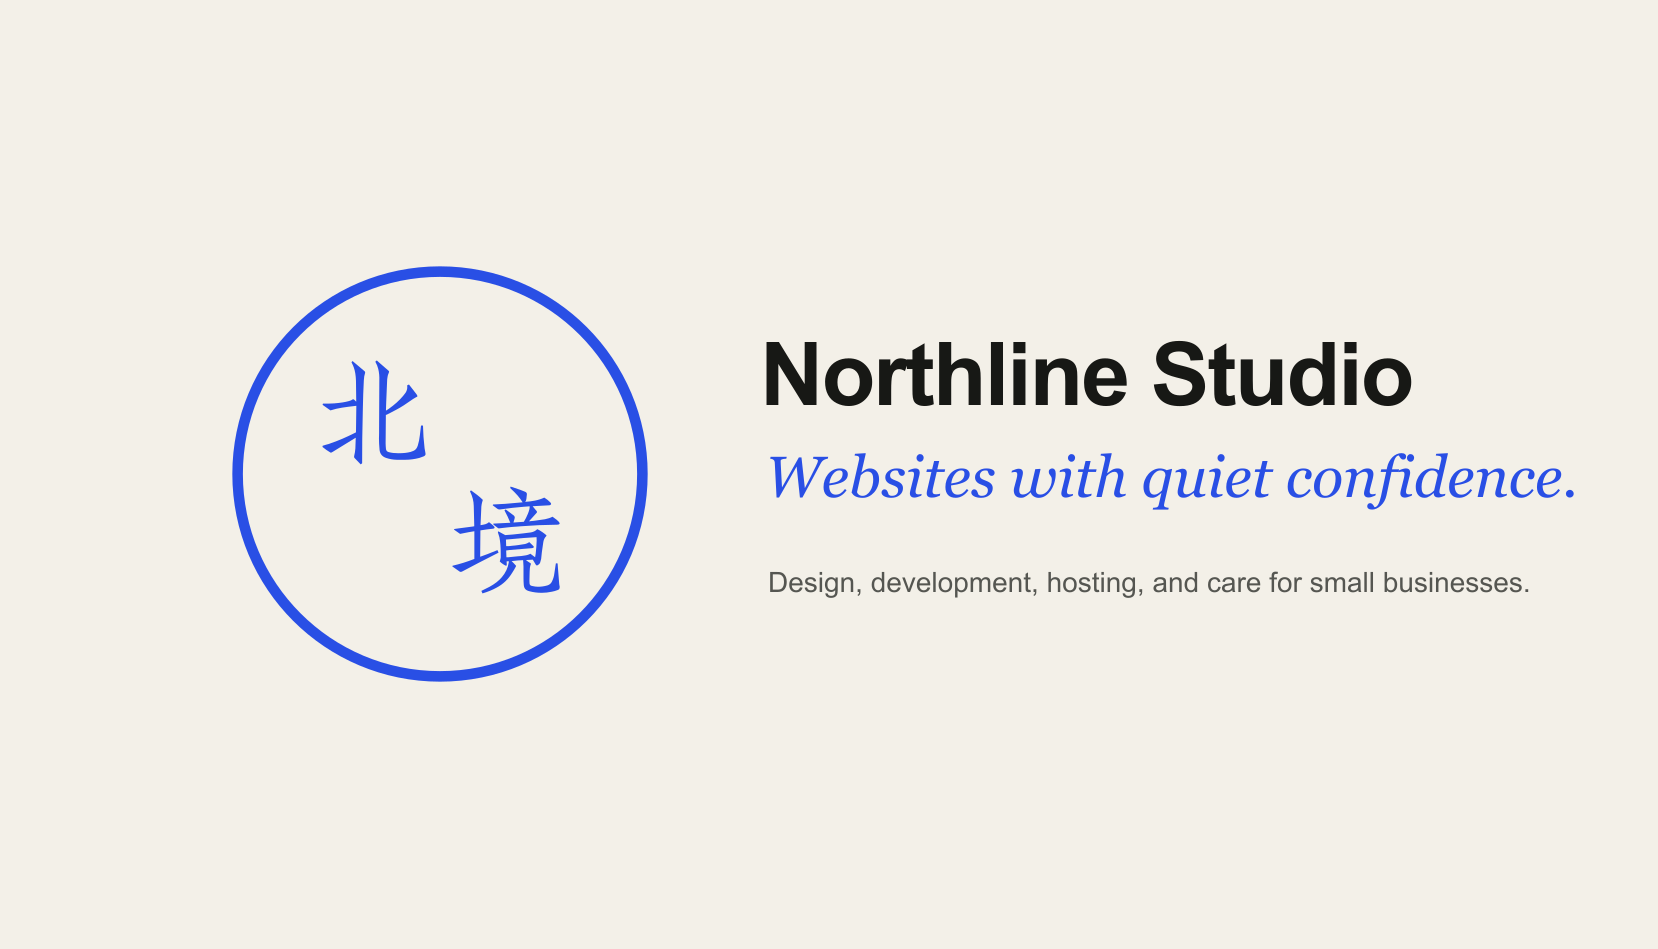
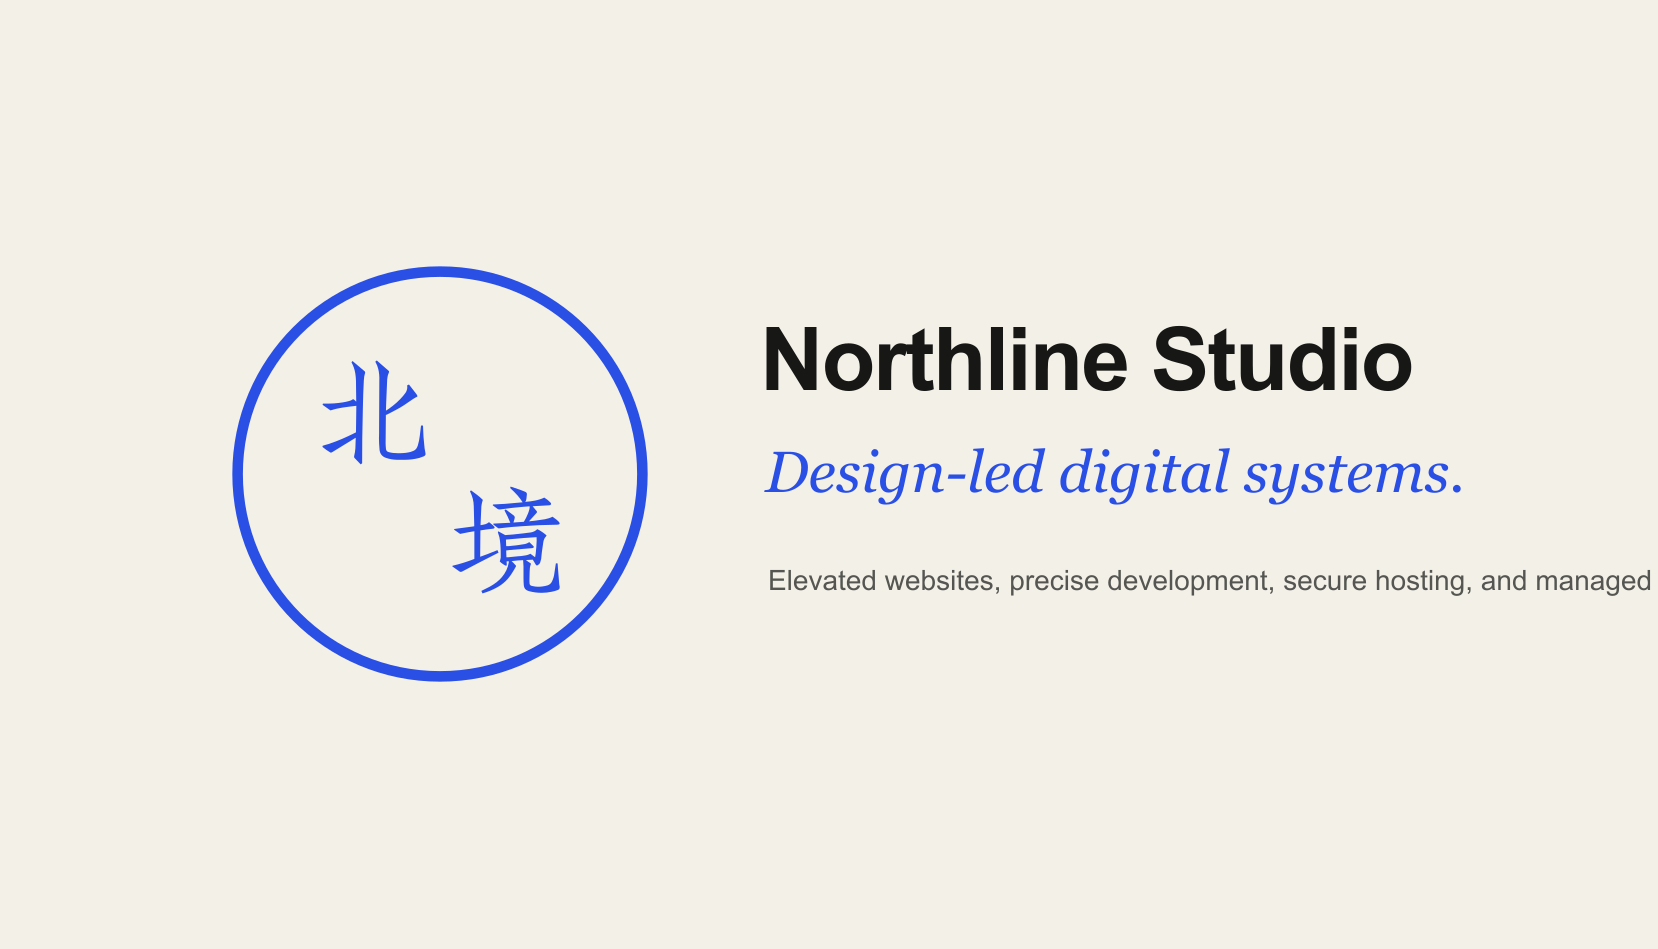
Elevate studio positioning copy

Changed region(s): [[0.4614, 0.3361, 0.8613, 0.4278], [0.4614, 0.5806, 1.0, 0.6417], [0.4614, 0.4584, 0.9536, 0.5501]]

diff --git a/app/page.tsx b/app/page.tsx
@@ -1,20 +1,20 @@
 const projects = [
   {
     number: "01",
-    type: "Professional Services",
-    name: "Aster & Co.",
-    description: "A calm, confident digital home for an advisory firm built on trust.",
+    type: "Editorial Identity",
+    name: "Aster Atelier",
+    description: "A refined digital presence for a visual brand with a sharp point of view.",
     className: "project-aster",
     mockup: (
       <div className="project-screen aster-screen" aria-hidden="true">
         <div className="screen-nav">
-          <span>ASTER & CO.</span>
-          <span>Services&nbsp;&nbsp; About&nbsp;&nbsp; Contact</span>
+          <span>ASTER ATELIER</span>
+          <span>Work&nbsp;&nbsp; Journal&nbsp;&nbsp; Contact</span>
         </div>
         <div className="aster-copy">
-          <span>THOUGHTFUL ADVICE. LASTING VALUE.</span>
-          <strong>Clarity for every<br />turn ahead.</strong>
-          <i>Explore our approach</i>
+          <span>VISUAL IDENTITY · DIGITAL SYSTEM</span>
+          <strong>Presence with<br />quiet authority.</strong>
+          <i>Enter the studio</i>
         </div>
         <div className="aster-orbit" />
       </div>
@@ -22,32 +22,32 @@ const projects = [
   },
   {
     number: "02",
-    type: "Local Business",
-    name: "Common Ground",
-    description: "A warm, neighborhood-first website designed to turn visits into regulars.",
+    type: "Premium Portfolio",
+    name: "Lucent House",
+    description: "A cinematic portfolio system built for high-impact launches and inquiries.",
     className: "project-common",
     mockup: (
       <div className="project-screen common-screen" aria-hidden="true">
-        <div className="common-stamp">CG<br /><small>EST. 2019</small></div>
-        <span className="common-note">COFFEE · COMMUNITY · EVERY DAY</span>
-        <strong>GOOD DAYS<br />START HERE.</strong>
-        <div className="coffee-cup"><span /></div>
-        <i>VIEW THE MENU</i>
+        <div className="common-stamp">LH<br /><small>INDEX</small></div>
+        <span className="common-note">SELECTED WORK · PRESS · BOOKING</span>
+        <strong>THE IMAGE<br />LEADS.</strong>
+        <div className="portfolio-orb"><span /></div>
+        <i>VIEW THE INDEX</i>
       </div>
     ),
   },
   {
     number: "03",
-    type: "Home Services",
-    name: "Summit Build",
-    description: "A bold, direct site that makes quality craftsmanship easy to trust.",
+    type: "Secure Platform",
+    name: "Meridian One",
+    description: "A polished web platform engineered for speed, stability, and trust.",
     className: "project-northline",
     mockup: (
       <div className="project-screen northline-screen" aria-hidden="true">
-        <div className="northline-nav"><b>SUMMIT / BUILD</b><span>PROJECTS&nbsp;&nbsp; PROCESS&nbsp;&nbsp; CONTACT</span></div>
+        <div className="northline-nav"><b>MERIDIAN / ONE</b><span>SYSTEM&nbsp;&nbsp; SECURITY&nbsp;&nbsp; ACCESS</span></div>
         <div className="northline-shape" />
-        <strong>BUILT RIGHT.<br />BUILT TO LAST.</strong>
-        <i>START A PROJECT</i>
+        <strong>DESIGNED SHARP.<br />BUILT SECURE.</strong>
+        <i>OPEN THE SYSTEM</i>
       </div>
     ),
   },
@@ -56,40 +56,40 @@ const projects = [
 const services = [
   {
     number: "01",
-    title: "Strategy & Design",
-    text: "A clear plan, purposeful structure, and a custom visual direction shaped around your business—not a recycled template.",
-    tags: ["Discovery", "UX direction", "Visual design"],
+    title: "Creative Direction",
+    text: "A distinct visual system, refined content structure, and interaction direction shaped around the way your brand should be perceived.",
+    tags: ["Identity direction", "UX architecture", "Artful interface"],
   },
   {
     number: "02",
-    title: "Development",
-    text: "Fast, responsive pages built with care so your site feels effortless on every screen and is easy to find online.",
-    tags: ["Responsive build", "SEO foundations", "Performance"],
+    title: "Technical Build",
+    text: "Clean, modern development with fast load times, responsive behavior, strong accessibility, and the technical foundation to scale with confidence.",
+    tags: ["Frontend engineering", "Performance", "SEO structure"],
   },
   {
     number: "03",
-    title: "Hosting & Care",
-    text: "Reliable hosting, updates, backups, and a real person to call when you need help after your new site goes live.",
-    tags: ["Managed hosting", "Maintenance", "Ongoing support"],
+    title: "Secure Hosting & Care",
+    text: "Managed deployment, monitoring, updates, and practical safeguards so the site stays stable, protected, and ready when your audience arrives.",
+    tags: ["Managed hosting", "Security care", "Ongoing support"],
   },
 ];
 
 const faqs = [
   {
-    question: "How much does a website cost?",
-    answer: "Every project is a little different. After a short conversation, you’ll receive a clear proposal based on the pages, features, and support your business actually needs.",
+    question: "What kind of projects do you take on?",
+    answer: "Northline Studio is best suited for brands that care about perception, polish, and long-term reliability—whether the project is a focused portfolio, a launch site, or a more complete digital presence.",
   },
   {
-    question: "How long does it take?",
-    answer: "Most small-business websites take a few weeks from kickoff to launch. The exact timeline depends on scope and how quickly content and feedback come together.",
+    question: "How long does a project take?",
+    answer: "Most focused sites take a few weeks from direction to launch. More layered builds with custom structure, content, or technical requirements are planned around a clear production schedule.",
   },
   {
-    question: "Can you redesign my current website?",
-    answer: "Absolutely. We can keep what is working, rethink what is not, and create a more modern, focused experience around your current business goals.",
+    question: "Can you elevate an existing site?",
+    answer: "Yes. We can preserve what is useful, sharpen the visual system, improve performance, and rebuild the experience so it feels more current, premium, and credible.",
   },
   {
     question: "What happens after launch?",
-    answer: "You won’t be left on your own. Ongoing hosting, maintenance, backups, and content updates can all be handled for you.",
+    answer: "The site can stay under managed care with hosting, updates, security-minded maintenance, backups, and thoughtful support when new content or changes are needed.",
   },
 ];
 
@@ -136,12 +136,12 @@ export default function Home() {
 
       <section className="hero" id="top">
         <div className="hero-copy">
-          <p className="eyebrow"><span /> Independent web design & development</p>
-          <h1>Websites that make your business look <em>as good as it is.</em></h1>
-          <p className="hero-intro">Custom design, reliable hosting, and ongoing support—all handled for you, so you can focus on running your business.</p>
+          <p className="eyebrow"><span /> Design-led websites & digital systems</p>
+          <h1>A digital studio for brands that need to look <em>exceptional.</em></h1>
+          <p className="hero-intro">Northline Studio creates elevated web experiences with strong visual direction, precise engineering, secure hosting, and the kind of polish that makes a brand feel established from the first click.</p>
           <div className="hero-actions">
-            <a className="button button-primary" href="#contact">Let&apos;s work together</a>
-            <a className="text-link" href="#work">See selected work <span>↓</span></a>
+            <a className="button button-primary" href="#contact">Build your presence</a>
+            <a className="text-link" href="#work">See studio concepts <span>↓</span></a>
           </div>
         </div>
 
@@ -150,40 +150,40 @@ export default function Home() {
           <div className="browser-card">
             <div className="browser-bar">
               <span className="browser-dots"><i /><i /><i /></span>
-              <span className="browser-address">yourbusiness.com</span>
+              <span className="browser-address">yourbrand.com</span>
             </div>
             <div className="browser-site">
-              <div className="mini-nav"><b>THE GOOD CO.</b><span>ABOUT&nbsp;&nbsp; SERVICES&nbsp;&nbsp; CONTACT</span></div>
-              <p>LOCAL EXPERTISE · PERSONAL SERVICE</p>
-              <h2>Great work<br />deserves a<br /><em>great website.</em></h2>
-              <button type="button" tabIndex={-1}>WORK WITH US</button>
+              <div className="mini-nav"><b>NORTHLINE / STUDIO</b><span>WORK&nbsp;&nbsp; METHOD&nbsp;&nbsp; CONTACT</span></div>
+              <p>VISUAL DIRECTION · SECURE BUILD</p>
+              <h2>Your brand<br />should feel<br /><em>impossible to ignore.</em></h2>
+              <button type="button" tabIndex={-1}>BEGIN THE BUILD</button>
               <div className="mini-art"><span className="mini-arch" /><span className="mini-circle" /></div>
             </div>
           </div>
-          <div className="launch-badge"><span>✓</span><div><small>YOUR SITE</small><strong>Ready to launch</strong></div></div>
-          <p className="visual-note">Designed to be clear.<br />Built to work hard.</p>
+          <div className="launch-badge"><span>✓</span><div><small>SYSTEM STATUS</small><strong>Launch-ready</strong></div></div>
+          <p className="visual-note">Designed with taste.<br />Built for trust.</p>
         </div>
 
         <div className="hero-proof" aria-label="Service highlights">
-          <span>Custom-built</span><i>✦</i><span>Mobile-first</span><i>✦</i><span>Fully managed</span><i>✦</i><span>Human support</span>
+          <span>Design-led</span><i>✦</i><span>High-performance</span><i>✦</i><span>Secure hosting</span><i>✦</i><span>Managed care</span>
         </div>
       </section>
 
       <section className="intro-section section-pad">
-        <p className="section-kicker">What your website should do</p>
+        <p className="section-kicker">What a premium site should do</p>
         <div className="intro-grid">
-          <h2>Make a strong first impression—and make the next step <em>obvious.</em></h2>
+          <h2>Create desire, build trust, and make the brand feel <em>inevitable.</em></h2>
           <div className="intro-copy">
-            <p>Your website should build trust, explain your value, and help the right people choose you. It shouldn&apos;t become one more technical problem on your list.</p>
-            <p>I take care of the whole process—from the first idea to launch and ongoing care—so you get a site that looks sharp and earns its place in your business.</p>
+            <p>Your website is often the first serious proof of your taste, credibility, and ambition. It should feel considered at every detail: layout, motion, typography, performance, and the path toward inquiry.</p>
+            <p>Northline Studio brings design sensibility and technical discipline together, creating digital homes that look refined, load quickly, stay dependable, and support the next stage of your brand.</p>
           </div>
         </div>
       </section>
 
       <section className="work-section section-pad" id="work">
         <div className="section-heading">
-          <div><p className="section-kicker light">Selected concepts</p><h2>Work with<br /><em>purpose.</em></h2></div>
-          <p>Each site starts with a different business problem—and ends with a clear, considered digital experience.</p>
+          <div><p className="section-kicker light">Selected concepts</p><h2>Designed for<br /><em>presence.</em></h2></div>
+          <p>Each concept explores a different kind of digital authority: editorial, visual, technical, and commercial.</p>
         </div>
         <div className="project-list">
           {projects.map((project) => (
@@ -205,8 +205,8 @@ export default function Home() {
 
       <section className="services-section section-pad" id="services">
         <div className="services-heading">
-          <p className="section-kicker">How I can help</p>
-          <h2>Everything you need.<br /><em>None of the runaround.</em></h2>
+          <p className="section-kicker">Studio capabilities</p>
+          <h2>Sharp creative.<br /><em>Serious engineering.</em></h2>
         </div>
         <div className="service-list">
           {services.map((service) => (
@@ -224,15 +224,15 @@ export default function Home() {
 
       <section className="process-section section-pad" id="process">
         <div className="process-intro">
-          <p className="section-kicker light">A simple process</p>
-          <h2>From first hello<br />to <em>launch day.</em></h2>
-          <p>Clear steps, honest communication, and no disappearing into a black box.</p>
+          <p className="section-kicker light">A focused process</p>
+          <h2>From direction<br />to <em>deployment.</em></h2>
+          <p>A clear creative path, disciplined technical execution, and a polished launch without unnecessary noise.</p>
         </div>
         <ol className="process-list">
-          <li><span>01</span><div><h3>Discover</h3><p>We talk about your business, your customers, and what the website needs to accomplish.</p></div></li>
-          <li><span>02</span><div><h3>Design</h3><p>I shape the strategy, content flow, and visual direction into a site that feels distinctly yours.</p></div></li>
-          <li><span>03</span><div><h3>Build</h3><p>The approved design becomes a fast, responsive website, tested across devices.</p></div></li>
-          <li><span>04</span><div><h3>Launch & care</h3><p>We go live with confidence, then I stay available for hosting, updates, and support.</p></div></li>
+          <li><span>01</span><div><h3>Direction</h3><p>We define the brand position, audience expectations, content priorities, and the feeling the site needs to create.</p></div></li>
+          <li><span>02</span><div><h3>Design system</h3><p>The visual language, page rhythm, and interaction details are shaped into a refined experience that feels unmistakably intentional.</p></div></li>
+          <li><span>03</span><div><h3>Engineering</h3><p>The approved direction becomes a fast, responsive, accessible site built with clean code and a stable technical foundation.</p></div></li>
+          <li><span>04</span><div><h3>Launch & protect</h3><p>Deployment, hosting, updates, and ongoing care are handled so the finished site remains secure, reliable, and ready to perform.</p></div></li>
         </ol>
       </section>
 
@@ -243,16 +243,16 @@ export default function Home() {
           <span className="about-caption">INDEPENDENT<br />DESIGN STUDIO</span>
         </div>
         <div className="about-copy">
-          <p className="section-kicker">The person behind the pixels</p>
-          <h2>Big-agency thinking.<br /><em>One-to-one attention.</em></h2>
-          <p>Northline Studio helps small businesses show up online with the same care and quality they bring to their own work.</p>
-          <p>You&apos;ll work directly with one dedicated maker from our first conversation through launch. That means fewer handoffs, clearer communication, and a website built by someone who knows your story.</p>
-          <a className="text-link" href="#contact">Tell me about your business</a>
+          <p className="section-kicker">The studio approach</p>
+          <h2>Boutique attention.<br /><em>Production-grade craft.</em></h2>
+          <p>Northline Studio is built for brands that want more than a pleasant template. The work sits at the intersection of taste, clarity, engineering, and long-term reliability.</p>
+          <p>You work directly with a dedicated maker from direction through launch, which keeps the process precise, personal, and focused on creating a digital presence that feels premium from the outside and dependable underneath.</p>
+          <a className="text-link" href="#contact">Tell me about your vision</a>
         </div>
       </section>
 
       <section className="faq-section section-pad">
-        <div className="faq-heading"><p className="section-kicker">Good to know</p><h2>A few common<br /><em>questions.</em></h2></div>
+        <div className="faq-heading"><p className="section-kicker">Good to know</p><h2>Before we<br /><em>begin.</em></h2></div>
         <div className="faq-list">
           {faqs.map((faq) => (
             <details key={faq.question}>
@@ -265,16 +265,16 @@ export default function Home() {
 
       <section className="contact-section" id="contact">
         <div className="contact-star" aria-hidden="true">✦</div>
-        <p className="section-kicker light">Have a project in mind?</p>
-        <h2>Let&apos;s make your website<br /><em>work harder.</em></h2>
-        <p>Tell me a little about your business and where you want to go next. The first conversation is free, friendly, and pressure-free.</p>
-        <a className="button button-light" href="mailto:hello@yourstudio.com?subject=New%20website%20project">Start the conversation</a>
-        <small>Currently accepting new projects</small>
+        <p className="section-kicker light">Ready for a sharper presence?</p>
+        <h2>Let&apos;s build the site your brand<br /><em>deserves.</em></h2>
+        <p>Tell me what you are building, what needs to feel elevated, and where the website needs to perform. The first conversation is focused, thoughtful, and pressure-free.</p>
+        <a className="button button-light" href="mailto:hello@yourstudio.com?subject=New%20Northline%20Studio%20project">Start the conversation</a>
+        <small>Selective new projects now open</small>
       </section>
 
       <footer>
         <a className="brand footer-brand" href="#top" aria-label="Back to top"><NorthlineLogo className="brand-logo" /><span className="brand-name">Northline<br />Studio</span></a>
-        <p>Web design, development & ongoing care<br />for small businesses that care about their work.</p>
+        <p>Design-led web experiences, secure hosting,<br />and managed care for brands with high standards.</p>
         <div className="footer-links"><a href="#work">Work</a><a href="#services">Services</a><a href="#about">About</a><a href="#contact">Contact</a></div>
         <div className="footer-bottom"><span>© {new Date().getFullYear()} Northline Studio</span><span>Designed with care. Built to last.</span><a href="#top">Back to top ↑</a></div>
       </footer>

diff --git a/app/globals.css b/app/globals.css
@@ -138,9 +138,9 @@ h1 em, h2 em { color: var(--blue); font-family: Georgia, 'Times New Roman', seri
 .common-note { position: absolute; right: 20px; top: 28px; font: clamp(5px,.6vw,8px) var(--font-geist-mono); letter-spacing: .1em; }
 .common-screen > strong { position: absolute; left: 7%; bottom: 13%; font-size: clamp(34px,5vw,78px); line-height: .95; letter-spacing: 0; }
 .common-screen > i { position: absolute; right: 6%; bottom: 8%; font: clamp(6px,.65vw,9px) var(--font-geist-mono); font-style: normal; }
-.coffee-cup { position: absolute; width: 28%; aspect-ratio: 1; border-radius: 50%; background: #efe5cf; right: 11%; top: 23%; box-shadow: 0 8px 0 rgba(72,49,24,.15); display: grid; place-items: center; }
-.coffee-cup span { width: 65%; aspect-ratio: 1; border-radius: 50%; background: #6a3d24; box-shadow: inset 5px 5px 8px rgba(0,0,0,.25); }
-.coffee-cup::after { content: ""; position: absolute; width: 27%; height: 35%; right: -18%; border: 8px solid #efe5cf; border-left: 0; border-radius: 0 20px 20px 0; }
+.portfolio-orb { position: absolute; width: 28%; aspect-ratio: 1; border-radius: 50%; background: #efe5cf; right: 11%; top: 23%; box-shadow: 0 8px 0 rgba(72,49,24,.15); display: grid; place-items: center; }
+.portfolio-orb span { width: 65%; aspect-ratio: 1; border-radius: 50%; background: #6a3d24; box-shadow: inset 5px 5px 8px rgba(0,0,0,.25); }
+.portfolio-orb::after { content: ""; position: absolute; inset: -12%; border: 1px solid rgba(52,35,25,.35); border-radius: 50%; }
 .project-northline .project-visual { background: #9cb6a0; }
 .northline-screen { background: #dce0d6; color: #1d2c23; transform: rotate(-1deg); }
 .northline-nav { height: 16%; padding: 0 5%; display: flex; align-items: center; justify-content: space-between; font-size: clamp(5px,.6vw,9px); border-bottom: 1px solid rgba(0,0,0,.2); }

diff --git a/app/layout.tsx b/app/layout.tsx
@@ -13,19 +13,19 @@ const geistMono = Geist_Mono({
 });
 
 export const metadata: Metadata = {
-  title: "Northline Studio | Websites for Small Businesses",
-  description: "Custom website design, development, hosting, and ongoing support for small businesses that care about their work.",
+  title: "Northline Studio | Design-Led Websites & Digital Systems",
+  description: "Elevated website design, precise development, secure hosting, and managed care for brands that need to look exceptional and perform reliably.",
   metadataBase: new URL("https://peterwusde.github.io/peter-wu-studio/"),
   openGraph: {
-    title: "Northline Studio | Websites for Small Businesses",
-    description: "Custom website design, reliable hosting, and ongoing support—all handled for you.",
+    title: "Northline Studio | Design-Led Websites & Digital Systems",
+    description: "Elevated website design, precise development, secure hosting, and managed care for brands with high standards.",
     type: "website",
-    images: [{ url: "/peter-wu-studio/og.png", width: 1658, height: 949, alt: "Northline Studio — websites for small businesses" }],
+    images: [{ url: "/peter-wu-studio/og.png", width: 1658, height: 949, alt: "Northline Studio — design-led websites and digital systems" }],
   },
   twitter: {
     card: "summary_large_image",
-    title: "Northline Studio | Websites for Small Businesses",
-    description: "Custom website design, reliable hosting, and ongoing support—all handled for you.",
+    title: "Northline Studio | Design-Led Websites & Digital Systems",
+    description: "Elevated website design, precise development, secure hosting, and managed care for brands with high standards.",
     images: ["/peter-wu-studio/og.png"],
   },
   icons: {
